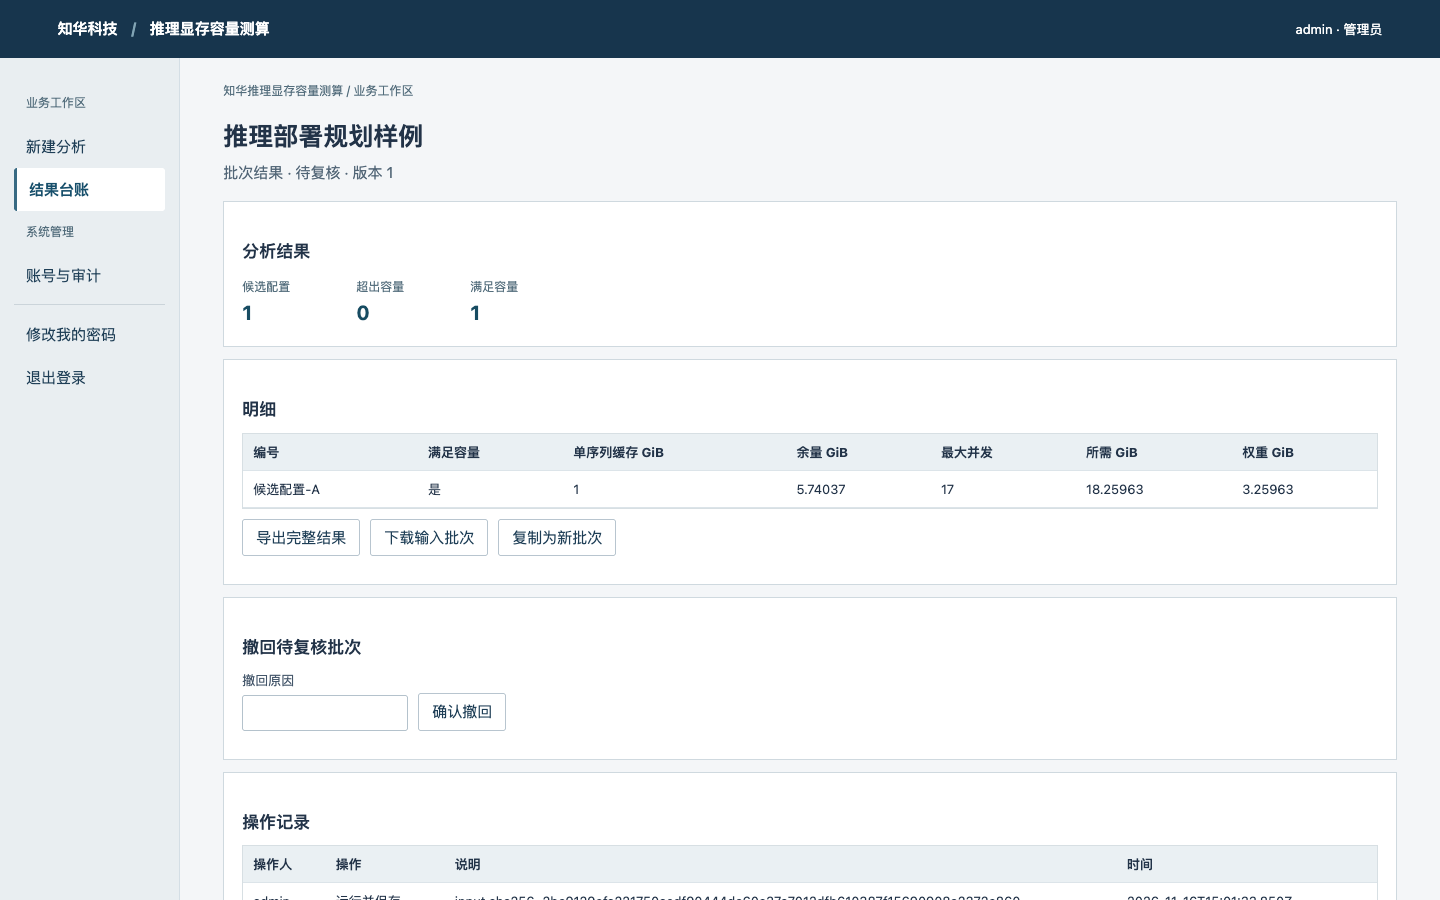
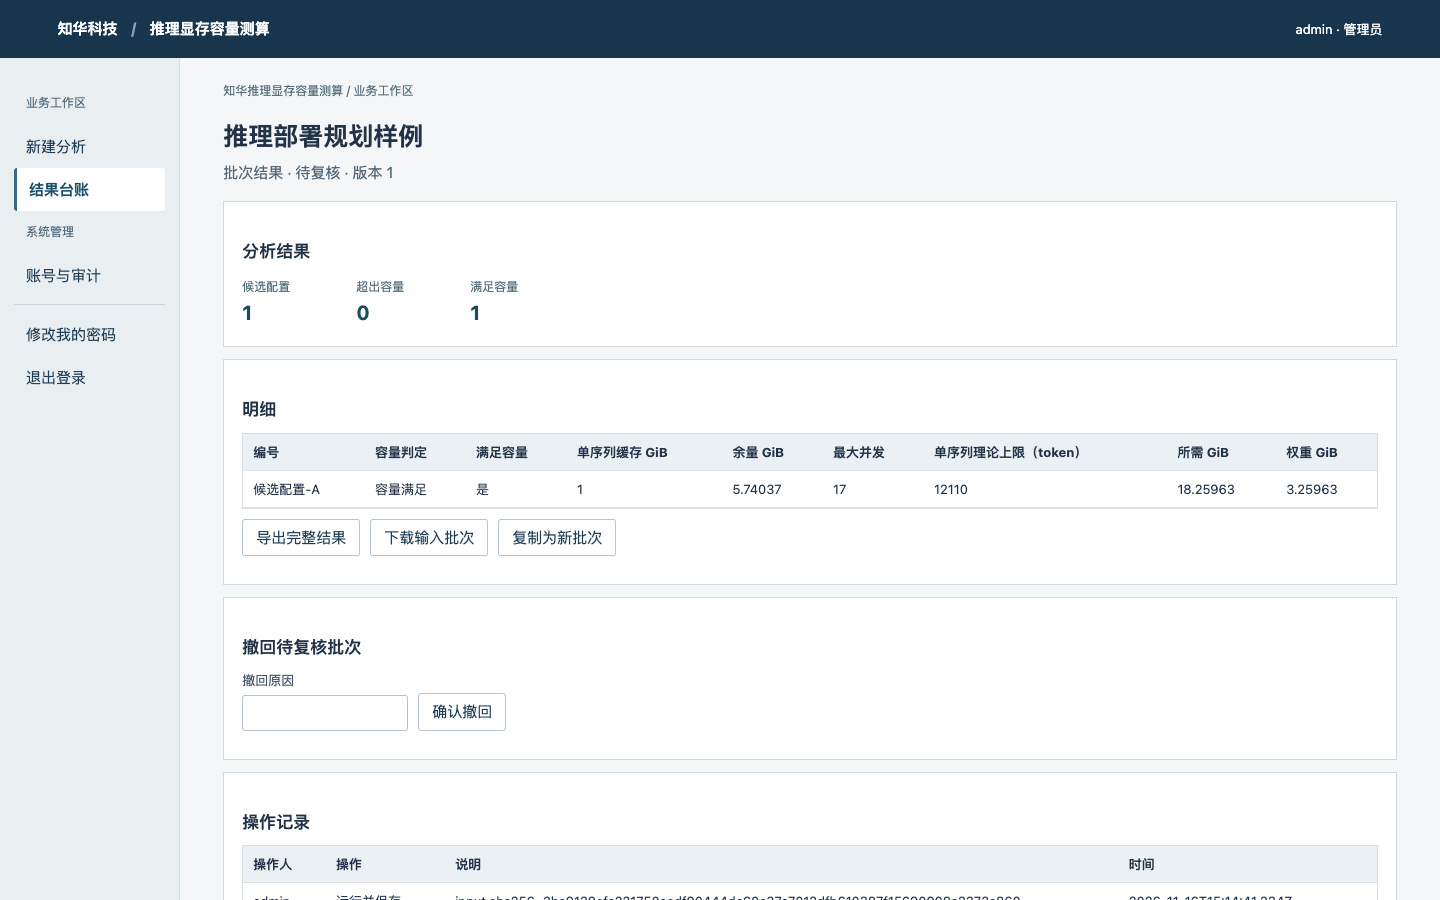
feat: add domain acceptance evidence and local startup diagnostics

diff --git a/frontend/app.js b/frontend/app.js
@@ -56,6 +56,8 @@ const labels = {
   context: "编排正文",
 };
 const resultLabels = {
+  maxContextTokens: "单序列理论上限（token）",
+  capacityStatus: "容量判定",
   ...labels,
   ...{
     knownTokens: "词表命中数",
@@ -112,6 +114,9 @@ const resultLabels = {
   },
 };
 const choices = {
+  WEIGHTS: "权重与预留已占满",
+  KV: "KV 容量不足",
+  FIT: "容量满足",
   KEEP: "保留",
   REVIEW_DUPLICATE: "待查重",
   CONSENSUS: "一致",
@@ -270,7 +275,7 @@ function table(parent, keys, rows, action) {
     for (const k of keys)
       line.insertCell().textContent =
         typeof row[k] === "string" &&
-        ["decision", "action", "reason", "split"].includes(k)
+        ["decision", "action", "reason", "split","reviewReason","capacityStatus","initialReason"].includes(k)
           ? choices[row[k]] || row[k]
           : fmt(row[k]);
     if (action) line.insertCell().append(action(row));

diff --git a/scripts/doctor.py b/scripts/doctor.py
@@ -1,0 +1,63 @@
+#!/usr/bin/env python3
+"""上海如静知华信息科技有限公司 · https://www.zhuatech.cn/
+商业授权或定制开发请微信添加微信号zhuatech或zhuatech2进行咨询。
+Optional preflight for a direct local launch; never initializes a database or changes persistent files.
+"""
+import os, re, shutil, socket, subprocess, sys
+from pathlib import Path
+
+ROOT = Path(__file__).resolve().parents[1]
+
+
+def main(args):
+    """Direct local launch preflight. 上海如静知华信息科技有限公司 · https://www.zhuatech.cn/
+    商业授权或定制开发请微信添加微信号zhuatech或zhuatech2进行咨询。
+    """
+    if args not in ([], ["--build"], ["--no-build"]):
+        print("用法：python3 scripts/doctor.py [--build|--no-build]")
+        return 2
+    jar = ROOT / "backend/target/app.jar"
+    build = args == ["--build"] or (not args and ((ROOT/".git").exists() or not jar.is_file()))
+    errors = []
+    home = os.environ.get("JAVA_HOME")
+    suffix = ".exe" if os.name == "nt" else ""
+    java = str(Path(home)/"bin"/("java"+suffix)) if home else shutil.which("java")
+    try:
+        command = subprocess.run([java or "java", "-XshowSettings:properties", "-version"], capture_output=True, text=True, timeout=12)
+        found = re.search(r"java\.specification\.version\s*=\s*(\d+)",command.stderr)
+        if command.returncode or not found or int(found[1]) < 21:
+            errors.append("需要 Java 21 或更新版本，请检查 JAVA_HOME。")
+    except (OSError, subprocess.TimeoutExpired):
+        errors.append("无法运行 Java，请先配置 JAVA_HOME。")
+    if build:
+        javac = str(Path(home)/"bin"/("javac"+suffix)) if home else shutil.which("javac")
+        if not javac or not os.access(javac,os.X_OK):
+            errors.append("源码构建需要完整 JDK，未找到 javac。")
+    elif not jar.is_file():
+        errors.append("没有可运行的 JAR，请先构建或使用免构建包。")
+    settings=(ROOT/"backend/src/main/resources/application.properties").read_text(encoding="utf8")
+    default=re.search(r"server\.port=\$\{PORT:(\d+)\}",settings)[1]
+    try:
+        port=int(os.environ.get("PORT",default))
+        if not 1 <= port <= 65535: raise ValueError()
+        address=os.environ.get("BIND_ADDRESS","127.0.0.1")
+        family,kind,proto,_,endpoint=socket.getaddrinfo(address,port,type=socket.SOCK_STREAM)[0]
+        with socket.socket(family,kind,proto) as probe:
+            probe.bind(endpoint)
+    except ValueError:
+        errors.append("PORT 须为 1 至 65535 的整数。")
+    except OSError:
+        errors.append("无法绑定监听地址：请检查 BIND_ADDRESS，或更换已被占用的 PORT。")
+    var=ROOT/"var"
+    storage=var if var.exists() else ROOT
+    if not storage.is_dir() or not os.access(storage,os.W_OK | os.X_OK):
+        errors.append("数据目录 var 不可创建或不可写，请检查解压目录权限。")
+    print("启动方式："+("源码构建" if build else "直接运行 JAR"))
+    for reason in errors:print("未通过："+reason)
+    if errors:return 1
+    print("本地前置检查通过。未连接数据库或下载依赖；实际运行仍以启动与登录为准。")
+    return 0
+
+
+if __name__=="__main__":
+    sys.exit(main(sys.argv[1:]))

diff --git a/backend/src/main/java/cn/zhuatech/kvcapacity/Algorithm.java b/backend/src/main/java/cn/zhuatech/kvcapacity/Algorithm.java
@@ -20,14 +20,16 @@ final class Algorithm {
     for (var r : rows) {
       double weights =
           num(r, "paramsB", 0.000001, 2000) * 1e9 * num(r, "weightBits", 1, 64) / 8 / (1L << 30);
-      double one =
+      int context = integer(r, "context", 1, 4000000);
+      double perToken =
           2.0
               * integer(r, "layers", 1, 1024)
               * integer(r, "kvHeads", 1, 1024)
               * integer(r, "headDim", 1, 4096)
               * num(r, "kvBytes", 0.5, 8)
-              * integer(r, "context", 1, 4000000)
+              // Per-token KV size, for a single live sequence.
               / (1L << 30);
+      double one = perToken * context;
       int parallel = integer(r, "concurrency", 1, 100000);
       double required = weights + one * parallel + reserve;
       long max = (long) Math.max(0, Math.floor((gpu - reserve - weights) / one));
@@ -47,7 +49,9 @@ final class Algorithm {
               "maxConcurrency",
               max,
               "fits",
-              required <= gpu));
+              required <= gpu,
+              "maxContextTokens", (long)Math.max(0, Math.floor((gpu - reserve - weights) / (perToken * parallel))),
+              "capacityStatus", required <= gpu ? "FIT" : weights + reserve >= gpu ? "WEIGHTS" : "KV"));
     }
     return result(
         Map.of("configurations", rows.size(), "fits", fits, "exceeds", rows.size() - fits), out);

diff --git a/scripts/smoke.py b/scripts/smoke.py
@@ -63,7 +63,13 @@ def smoke():
                 closed=call("/api/runs/"+one["id"]+"/withdraw","POST",{"version":again["revision"],"note":"自检完成，保留记录"},auth())
                 assert closed["stage"]=="WITHDRAWN" and closed["result"]==one["result"]
                 assert call("/api/runs?state=WITHDRAWN&scope=mine",token=auth())["total"]==1
-                print("PASS: packaged startup, static UI, login, execution, idempotency, disk restart and audited withdrawal")
+                fixture=json.loads((ROOT/"examples/acceptance.json").read_text(encoding="utf8"))
+                result=call("/api/runs","POST",fixture,auth(),"domain-acceptance")["result"]
+                expected=json.loads("{\"fits\":0}")
+                assert all(k in result["metrics"] and result["metrics"][k]==v for k,v in expected.items()),result["metrics"]
+                evidence=json.loads("{\"id\":\"tiny\",\"capacityStatus\":\"WEIGHTS\",\"maxContextTokens\":0}")
+                assert any(all(k in row and row[k]==v for k,v in evidence.items()) for row in result["rows"]),result["rows"]
+                print("PASS: packaged startup, login, execution, idempotency, restart, withdrawal and project-specific acceptance")
             except BaseException:
                 log.flush();log.seek(0);print(log.read()[-3500:],file=sys.stderr);raise
             finally:stop(p)

diff --git a/backend/src/test/java/cn/zhuatech/kvcapacity/AlgorithmTest.java b/backend/src/test/java/cn/zhuatech/kvcapacity/AlgorithmTest.java
@@ -35,6 +35,18 @@ class AlgorithmTest {
 
   /** 上海如静知华信息科技有限公司 · https://www.zhuatech.cn/ · 商业授权或定制开发请微信添加微信号zhuatech或zhuatech2进行咨询。 */
   @Test
+  void enterpriseEvidenceAndBoundaries() {
+    var r=Algorithm.compute(Map.of("gpuGiB",1,"reserveGiB",0),data);
+    var row=((List<Map<String,Object>>)r.get("rows")).getFirst();
+    assertEquals("WEIGHTS",row.get("capacityStatus"));assertEquals(0L,row.get("maxContextTokens"));
+    var normal=((List<Map<String,Object>>)Algorithm.compute(cfg,data).get("rows")).getFirst();
+    assertTrue(((Number)normal.get("maxContextTokens")).longValue()>=8192);
+    var high=new HashMap<>(data.getFirst());high.put("concurrency",100000);
+    assertEquals("KV",((List<Map<String,Object>>)Algorithm.compute(cfg,List.of(high)).get("rows")).getFirst().get("capacityStatus"));
+  }
+
+  /** 上海如静知华信息科技有限公司 · https://www.zhuatech.cn/ · 商业授权或定制开发请微信添加微信号zhuatech或zhuatech2进行咨询。 */
+  @Test
   void knownResults() {
     var result = Algorithm.compute(cfg, data);
     var m = (Map<String, Object>) result.get("metrics");

diff --git a/README.md b/README.md
@@ -20,7 +20,15 @@
 
 [输入样本](examples/batch.json) · [部署、接口和用户说明](docs/OPERATIONS.md) · [行业参考：ggml-org/llama.cpp](https://github.com/ggml-org/llama.cpp)。本项目独立实现上述子场景，不是上游的分支或完整替代品。
 
+## 1.3 · 显存瓶颈与上下文上限
+
+按输入的并发量反算单序列理论上下文上限，区分权重加预留已占满显存和 KV 缓存不足，不代表实测吞吐。 已保存批次保持原快照，新口径用于新建或复制后重新运行的批次。
+
+[可直接导入的 1.3 专项验收样本](examples/acceptance.json) · 用免构建包执行 `python3 scripts/smoke.py` 可在临时库自动核对期望结果，不操作现有业务库。
+
 ## 本地启动
+
+可选：先执行 `python3 scripts/doctor.py` 检查 Java、端口和本地数据目录，检查不会初始化数据库。直接启动不要求安装 Python。
 
 **1.2 更新：** 导入 JSON 时会指出错误行和字段，不会悄悄忽略多余的列。误提交的批次，在其他人复核前可由提交人填写原因并撤回；原结果与操作记录会保留，需要修正时可复制为新批次。MySQL 下同时重试同一笔提交会返回同一个批次。
 

diff --git a/README.en.md b/README.en.md
@@ -4,7 +4,13 @@
 
 Estimate dense decoder weights and grouped-query KV cache usage for a single device. Compare memory headroom and maximum concurrency across candidate deployments. This is a planning estimate, not a hardware benchmark.
 
+## 1.3: business acceptance
+
+Estimate maximum per-sequence context at the requested concurrency and distinguish weight/reserve limits from KV limits. Previously saved results remain unchanged. Re-run a copy to apply the new calculation.
+
 ## Run locally
+
+Optional: run `python3 scripts/doctor.py` to check Java, the local bind address/port, and data directory permissions before launching. Python is not required to run the workbench.
 
 **1.2 update:** JSON imports identify the offending row or field instead of silently dropping unknown columns. Authors may withdraw a pending batch with a reason, retain its input and result, and copy it for correction. Concurrent retries with the same submission key and payload resolve to a single record on MySQL.
 

diff --git a/docs/TESTING.md b/docs/TESTING.md
@@ -5,6 +5,10 @@
 
 验证 8192 上下文时每序列 KV 恰为 1 GiB；核对参数量、并发和预留的计算；拒绝小数并发并识别无法装入的设备。
 
+## 1.3 专项回归
+
+显存瓶颈与上下文上限：按输入的并发量反算单序列理论上下文上限，区分权重加预留已占满显存和 KV 缓存不足，不代表实测吞吐。 运行 AlgorithmTest.enterpriseEvidenceAndBoundaries 复核边界；全套共 14 条 Java 测试，另有 3 条前端导入测试。
+
 ## 1.2 新增回归
 
 在以下 1.1 的基线之上，新增两条 HTTP 测试：只允许作者按正确版本撤回、非法撤回不改变数据；撤回与复核并发时只有一笔成功。共 13 条 Java 测试。维护者可另用 Node 18+ 运行 `node --test scripts/import.test.mjs`，验证本项目导入样本、错误行、类型和未知字段。正式发布另从干净目录启动，MySQL 实测六个并发重试只生成一个结果。
